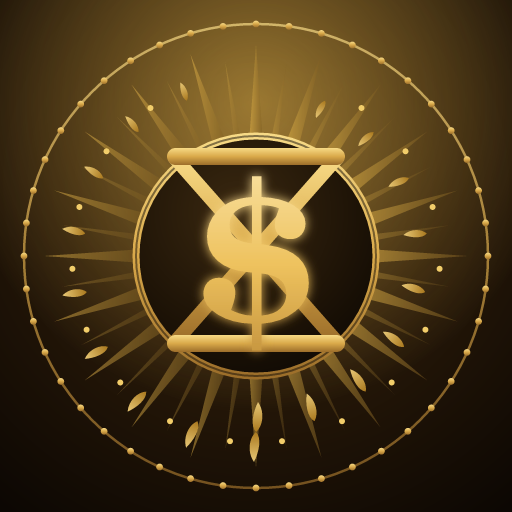
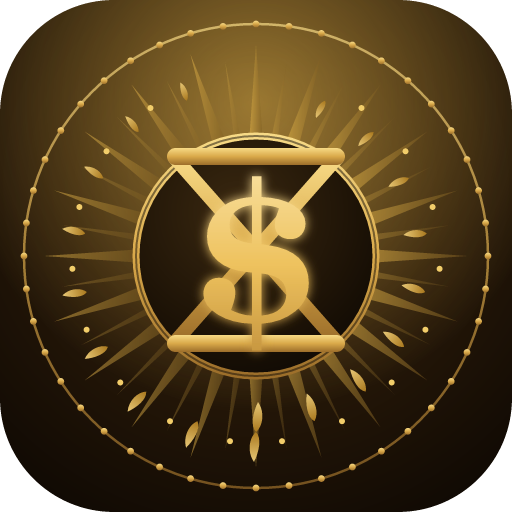
fix: cantos arredondados no ícone (home + splash) + maskable separado
O ícone "any" agora tem cantos arredondados (formato de app polido na
tela inicial e no splash). Ícone maskable full-bleed movido para arquivos
próprios (icon-*-maskable.png) para o Android continuar mascarando certo.
Manifest atualizado e cache do SW bumpado (pe-v8 → pe-v9).

diff --git a/sw.js b/sw.js
@@ -1,6 +1,6 @@
-const CACHE = 'pe-v8';
+const CACHE = 'pe-v9';
 const CDN   = 'pe-cdn-v6';
-const CORE  = ['/', '/manifest.json', '/icon.svg', '/icon-192.png', '/icon-512.png'];
+const CORE  = ['/', '/manifest.json', '/icon.svg', '/icon-192.png', '/icon-512.png', '/icon-192-maskable.png', '/icon-512-maskable.png'];
 
 self.addEventListener('install', e => {
   e.waitUntil(caches.open(CACHE).then(c => c.addAll(CORE)));